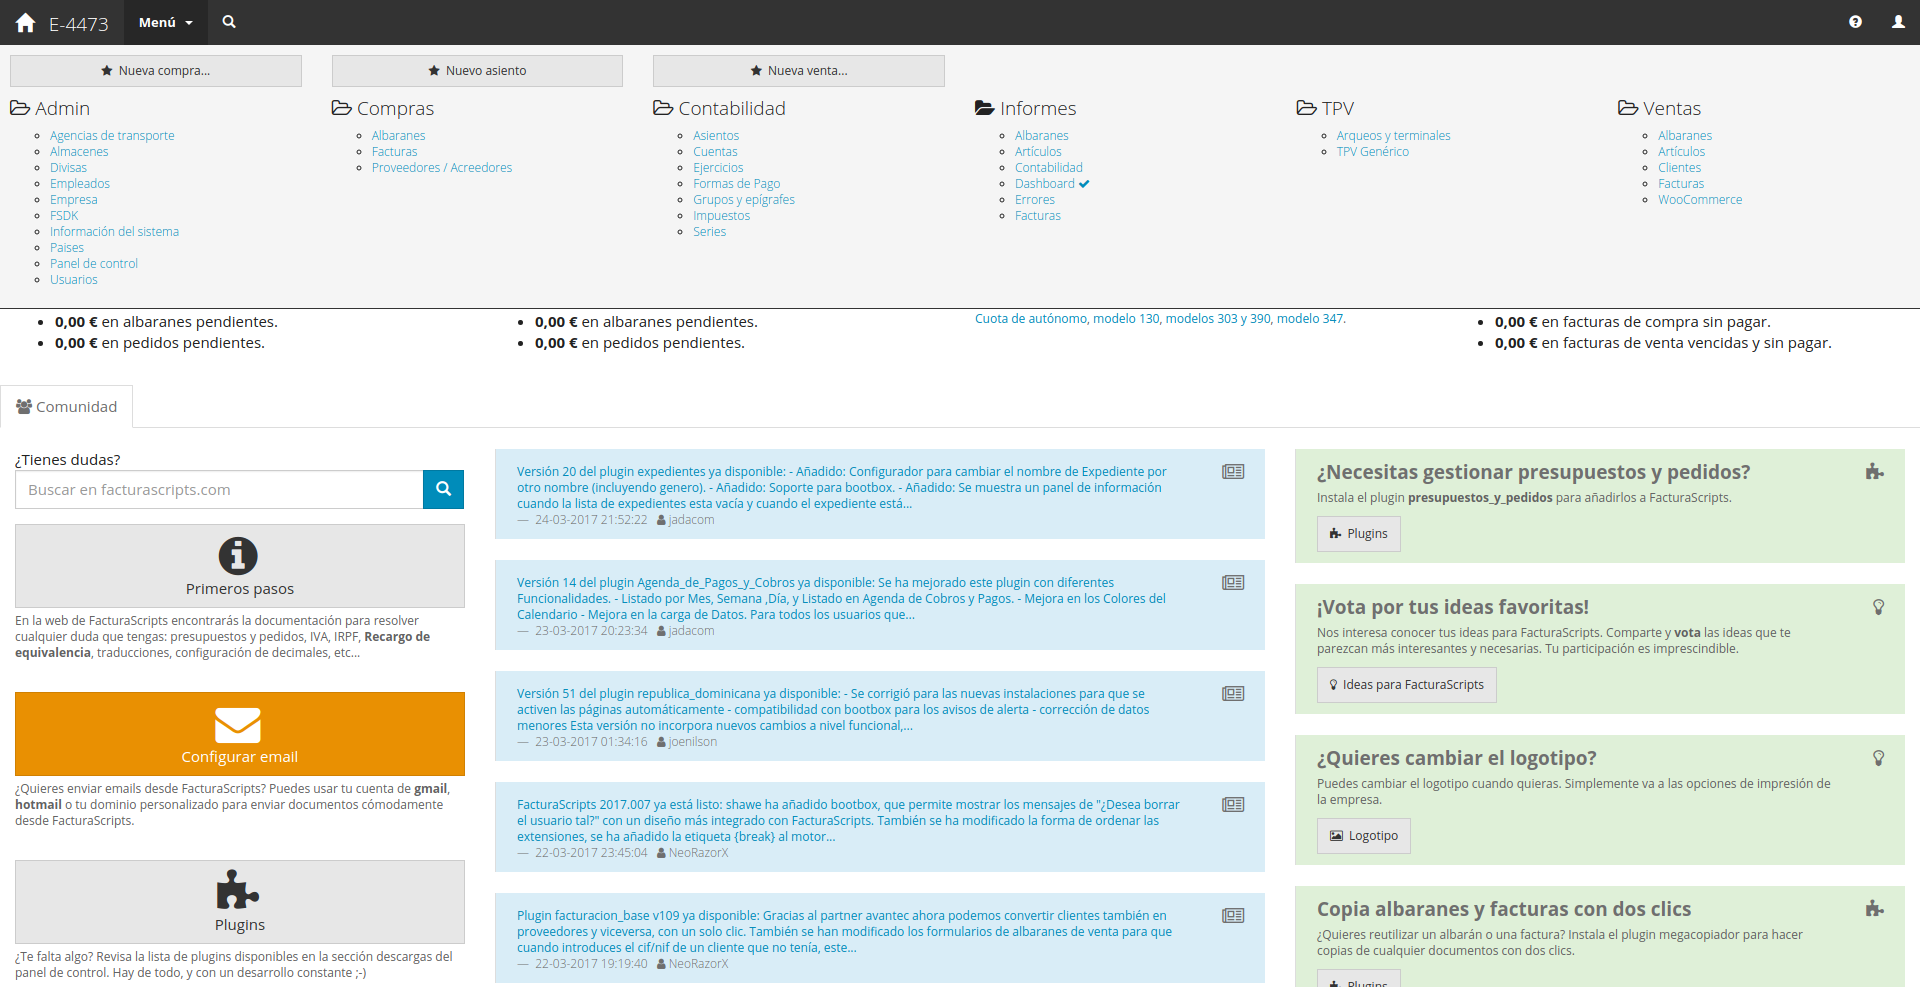
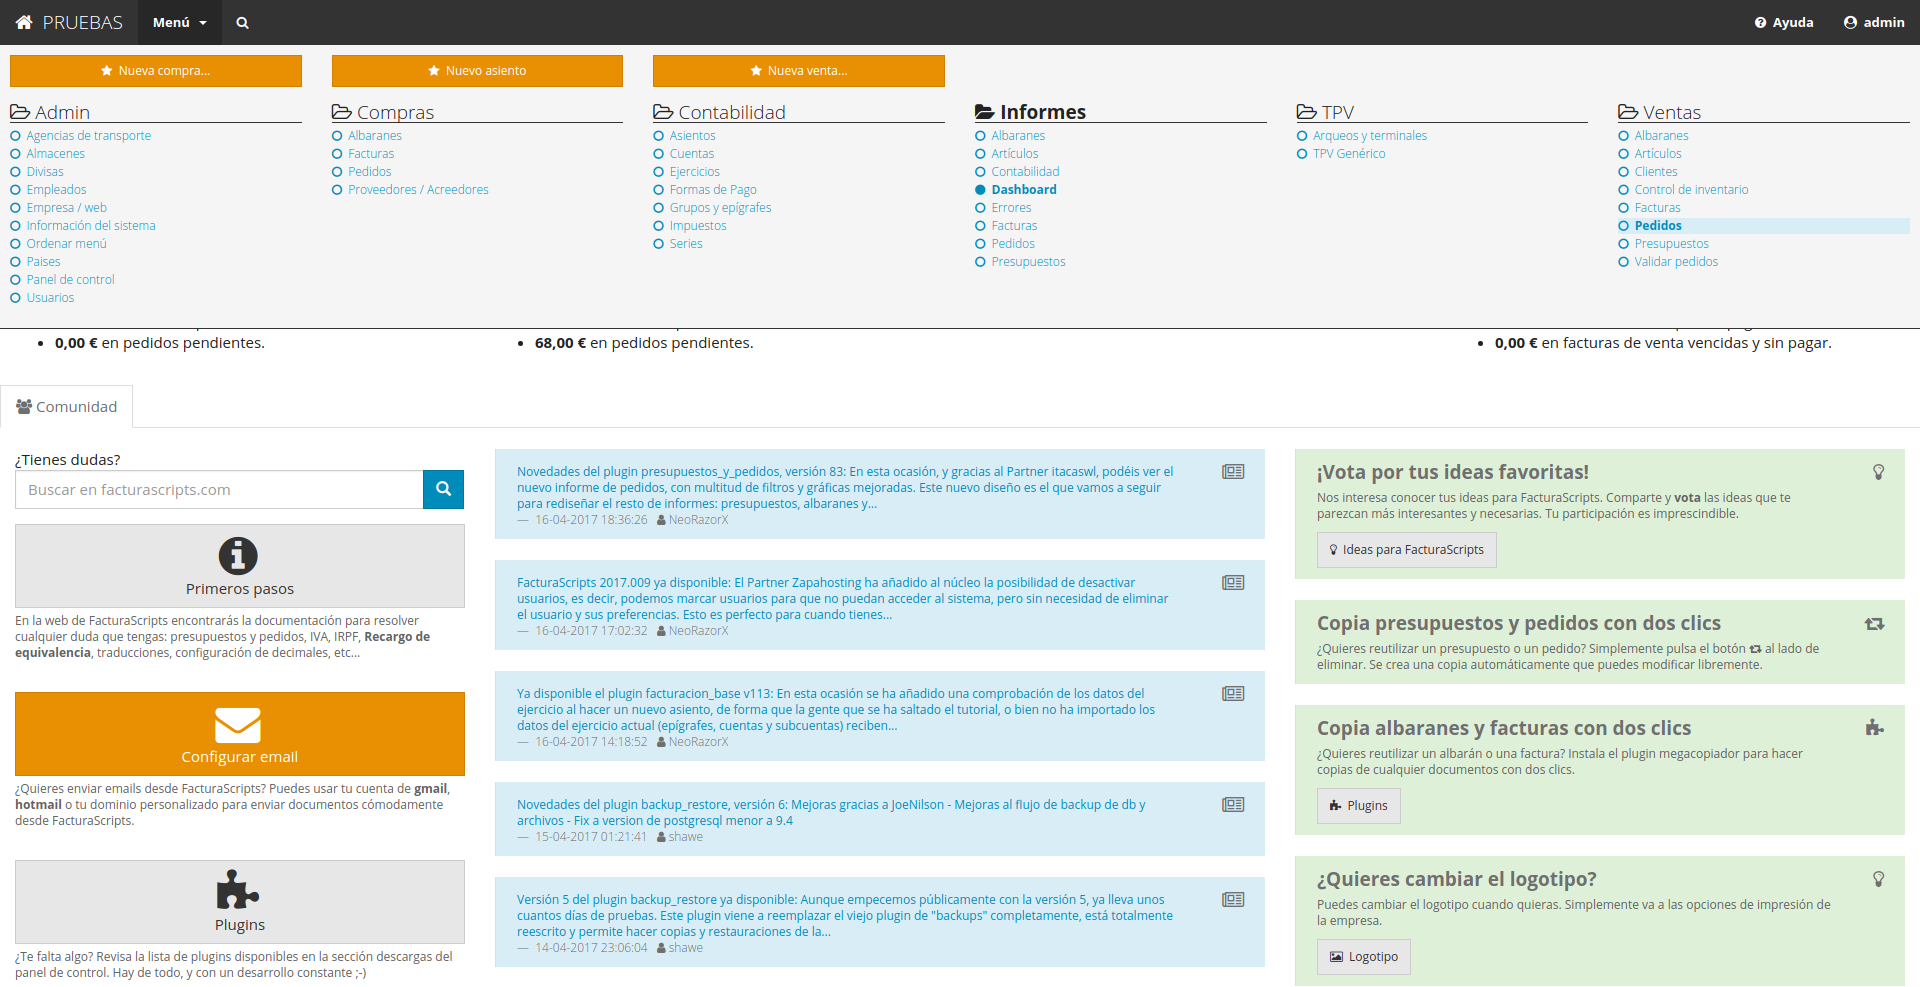
Mejorado el diseño y los iconos.

diff --git a/view/header.html b/view/header.html
@@ -11,14 +11,14 @@
    <link rel="stylesheet" href="{#FS_PATH#}view/css/font-awesome.min.css" />
    <link rel="stylesheet" href="{#FS_PATH#}view/css/datepicker.css" />
    <link rel="stylesheet" href="{#FS_PATH#}view/css/custom.css" />
-   <link rel="stylesheet" href="{#FS_PATH#}plugins/menu_unico/view/css/mega-dropdown.css" />
+   <link rel="stylesheet" href="{#FS_PATH#}plugins/menu_unico/view/css/mega-dropdown.css?updated={$fsc->today()}" />
    <script type="text/javascript" src="{#FS_PATH#}view/js/jquery.min.js"></script>
    <script type="text/javascript" src="{#FS_PATH#}view/js/bootstrap.min.js"></script>
    <script type="text/javascript" src="{#FS_PATH#}view/js/bootstrap-datepicker.js" charset="UTF-8"></script>
    <script type="text/javascript" src="{#FS_PATH#}view/js/jquery.autocomplete.min.js"></script>
    <script type="text/javascript" src="{#FS_PATH#}view/js/jquery-ui.min.js"></script>
-   <script type="text/javascript" src="{#FS_PATH#}view/js/base.js?updated={$fsc->today()}"></script>
    <script type="text/javascript" src="{#FS_PATH#}view/js/bootbox.min.js"></script>
+   <script type="text/javascript" src="{#FS_PATH#}view/js/base.js?updated={$fsc->today()}"></script>
    <script type="text/javascript">
       bootbox.setLocale("es");
 
@@ -60,7 +60,7 @@
                <span class="icon-bar"></span>
             </button>
             <a class="navbar-brand" href="index.php">
-               <span class="glyphicon glyphicon-home"></span> &nbsp;
+               <i class="fa fa-home" aria-hidden="true"></i>&nbsp;
                <span class="hidden-sm">{if="FS_DEMO"}DEMO{elseif="$fsc->empresa->nombrecorto"}{$fsc->empresa->nombrecorto}{else}{$fsc->empresa->nombre}{/if}</span>
             </a>
          </div>
@@ -81,7 +81,7 @@
                         {if="$fsc->check_for_updates()"}
                         <div class="col-sm-3 col-lg-2">
                            <a href="{#FS_PATH#}updater.php" class="btn btn-sm btn-block btn-info">
-                              <span class="glyphicon glyphicon-upload"></span> Hay actualizaciones
+                              <i class="fa fa-cloud-upload" aria-hidden="true"></i>&nbsp; Hay actualizaciones
                            </a>
                         </div>
                         {/if}
@@ -111,42 +111,44 @@
                            {/if}
                         {/loop}
                      </div>
-                     <div class="row" style="overflow: auto !important;">
+                     <div class="row">
                         {loop="$fsc->folders()"}
                         {if="$counter%6==0"}
                         </div><div class="row">
                         {/if}
                         <div class="col-sm-3 col-lg-2">
-                           <h3 class="text-capitalize dropdown-header">
+                           <h4 class="text-capitalize">
                               {if="$value1==$fsc->page->folder"}
-                              <i class="fa fa-folder-open" aria-hidden="true"></i>
+                              <i class="fa fa-folder-open" aria-hidden="true"></i> <b>{$value1}</b>
                               {else}
-                              <i class="fa fa-folder-open-o" aria-hidden="true"></i>
+                              <i class="fa fa-folder-open-o" aria-hidden="true"></i> {$value1}
                               {/if}
-                              {$value1}
-                           </h3>
+                           </h4>
                            <ul>
                               {loop="$fsc->pages($value1)"}
                                  {if="$value2->showing()"}
-                                 <li class="mega-dropdown-active">
+                                 <li class="active">
                                     <a href="{$value2->url()}">
-                                       {$value2->title} <i class="fa fa-check" aria-hidden="true"></i>
+                                       <i class="fa fa-circle" aria-hidden="true"></i>&nbsp; {$value2->title}
                                     </a>
                                  </li>
                                  {else}
-                                 <li class="mega-dropdown-item"><a href="{$value2->url()}">{$value2->title}</a></li>
+                                 <li>
+                                    <a href="{$value2->url()}">
+                                       <i class="fa fa-circle-o" aria-hidden="true"></i>&nbsp; {$value2->title}
+                                    </a>
+                                 </li>
                                  {/if}
                               {/loop}
                            </ul>
-                           <div class="divider"></div>
-                        </div>
+                           </div>
                         {/loop}
                      </div>
                   </div>
                </li>
                <li class="dropdown mega-dropdown">
                   <a href="#" class="dropdown-toggle" data-toggle="dropdown">
-                     <span class="glyphicon glyphicon-search"></span>
+                     <i class="fa fa-search" aria-hidden="true"></i>
                   </a>
                   <div class="dropdown-menu mega-dropdown-menu">
                      <form name="f_mega_menu" action="index.php" method="get" class="form">
@@ -178,7 +180,7 @@
                            <div class="col-sm-3 col-lg-2">
                               <div class="form-group">
                                  <button class="btn btn-primary" type="submit">
-                                    <span class="glyphicon glyphicon-search"></span>&nbsp; Buscar
+                                    <i class="fa fa-search" aria-hidden="true"></i>&nbsp; Buscar
                                  </button>
                               </div>
                            </div>
@@ -189,13 +191,13 @@
                {if="$fsc->get_last_changes()"}
                <li class="dropdown mega-dropdown">
                   <a href="#" class="dropdown-toggle" data-toggle="dropdown">
-                     <span class="glyphicon glyphicon-time"></span>
+                     <i class="fa fa-clock-o" aria-hidden="true"></i>
                   </a>
                   <div class="dropdown-menu mega-dropdown-menu">
                      <div class="row">
                         <div class="col-sm-12">
                            <h4>
-                              <span class="glyphicon glyphicon-time"></span> Historial de cambios:
+                              <i class="fa fa-clock" aria-hidden="true"></i> Historial de cambios:
                            </h4>
                            <div class="table-responsive">
                               <table class="table table-hover">
@@ -225,8 +227,10 @@
 
             <ul class="nav navbar-nav navbar-right">
                <li class="dropdown">
-                  <a href="#" class="dropdown-toggle" data-toggle="dropdown" title="Ayuda">
-                     <span class="glyphicon glyphicon-question-sign hidden-xs"></span>
+                  <a href="#" class="dropdown-toggle" data-toggle="dropdown">
+                     <span class="hidden-xs">
+                        <i class="fa fa-question-circle" aria-hidden="true"></i>&nbsp; Ayuda
+                     </span>
                      <span class="visible-xs">Ayuda</span>
                   </a>
                   <ul class="dropdown-menu">
@@ -236,13 +240,8 @@
                         </a>
                      </li>
                      <li>
-                        <a href="https://www.facturascripts.com/noticias" target="_blank">
-                           <i class="fa fa-newspaper-o" aria-hidden="true"></i>&nbsp; Noticias
-                        </a>
-                     </li>
-                     <li>
-                        <a href="https://www.facturascripts.com/preguntas" target="_blank">
-                           <i class="fa fa-question-circle" aria-hidden="true"></i>&nbsp; Preguntas
+                        <a href="https://www.facturascripts.com/contacto" target="_blank">
+                           <i class="fa fa-shield" aria-hidden="true"></i>&nbsp; Soporte oficial
                         </a>
                      </li>
                      <li>
@@ -256,25 +255,28 @@
                         </a>
                      </li>
                      <li class="divider"></li>
-                     <li><a href="#" id="b_feedback"><span class="glyphicon glyphicon-send"></span>&nbsp; Informar...</a></li>
+                     <li>
+                        <a href="#" id="b_feedback">
+                           <i class="fa fa-edit" aria-hidden="true"></i>&nbsp; Informar de error...
+                        </a>
+                     </li>
                   </ul>
                </li>
 
                <li class="dropdown">
                   <a href="#" class="dropdown-toggle" data-toggle="dropdown" title="{$fsc->user->nick}">
-                     <span class="glyphicon glyphicon-user hidden-xs"></span>
-                     <span class="visible-xs">Usuario</span>
+                     <i class="fa fa-user-circle" aria-hidden="true"></i>&nbsp; {$fsc->user->nick}
                   </a>
                   <ul class="dropdown-menu">
                      <li>
                         <a href="{$fsc->user->url()}">
-                           <span class="glyphicon glyphicon-user"></span>&nbsp; {$fsc->user->nick}
+                           <i class="fa fa-edit" aria-hidden="true"></i>&nbsp; editar perfil
                         </a>
                      </li>
                      <li class="divider"></li>
                      <li>
                         <a href="{$fsc->url()}&logout=TRUE">
-                           <span class="glyphicon glyphicon-log-out"></span>&nbsp; Cerrar sesión
+                           <i class="fa fa-sign-out" aria-hidden="true"></i>&nbsp; Cerrar sesión
                         </a>
                      </li>
                   </ul>

diff --git a/view/css/mega-dropdown.css b/view/css/mega-dropdown.css
@@ -3,12 +3,6 @@
  * http://bootsnipp.com/snippets/featured/mega-menu-slide-down-on-hover-with-carousel
  * http://bootsnipp.com/snippets/featured/bootstrap-mega-menu
  */
-.dropdown-menu {
-    max-height: 500px;
-    overflow: hidden;
-    overflow-y: auto;
-}
-
 .navbar .navbar-nav > li > a {
    font-weight: bold;
 }
@@ -23,40 +17,26 @@
    background-color: whitesmoke;
    border-bottom: 1px solid #333;
 }
-.navbar .mega-dropdown-menu .dropdown-header {
-   font-size: 1.2em;
+.navbar .mega-dropdown-menu h4 {
+   margin-top: 15px;
+   margin-bottom: 5px;
+   border-bottom: 1px solid #333;
+}
+.navbar .mega-dropdown-menu ul {
+   list-style: none;
+   padding-left: 0px;
+}
+.navbar .mega-dropdown-menu ul li {
+   margin-bottom: 2px;
+}
+.navbar .mega-dropdown-menu ul li.active {
    font-weight: bold;
-   padding: 5px 40px 5px 5px;
-   line-height: 15px;
-   color: #333;
 }
-
-li.mega-dropdown-item {
-  list-style: none;
-  margin-left: -15px;
-  padding-left: 0px;
+.navbar .mega-dropdown-menu ul li a {
+   display: block;
 }
-
-li.mega-dropdown-active {
-  list-style: none;
-  margin-left: -15px;
-  font-weight: bold;
-}
-
-li.mega-dropdown-item > a {
-  display: block;
-  padding: 2px 1px;
-  clear: both;
-  font-size: 1em;
-  font-weight: normal;
-  line-height: 1.428571429;
-  color: #333333;
-  white-space: normal;
-}
-
-.mega-dropdown-item > a:hover,
-.mega-dropdown-item > a:focus {
-  text-decoration: none;
-  color: #fff;
-  background-color: #999;
+.navbar .mega-dropdown-menu ul li a:hover {
+   text-decoration: none;
+   background-color: #D9EDF7;
+   font-weight: bold;
 }
